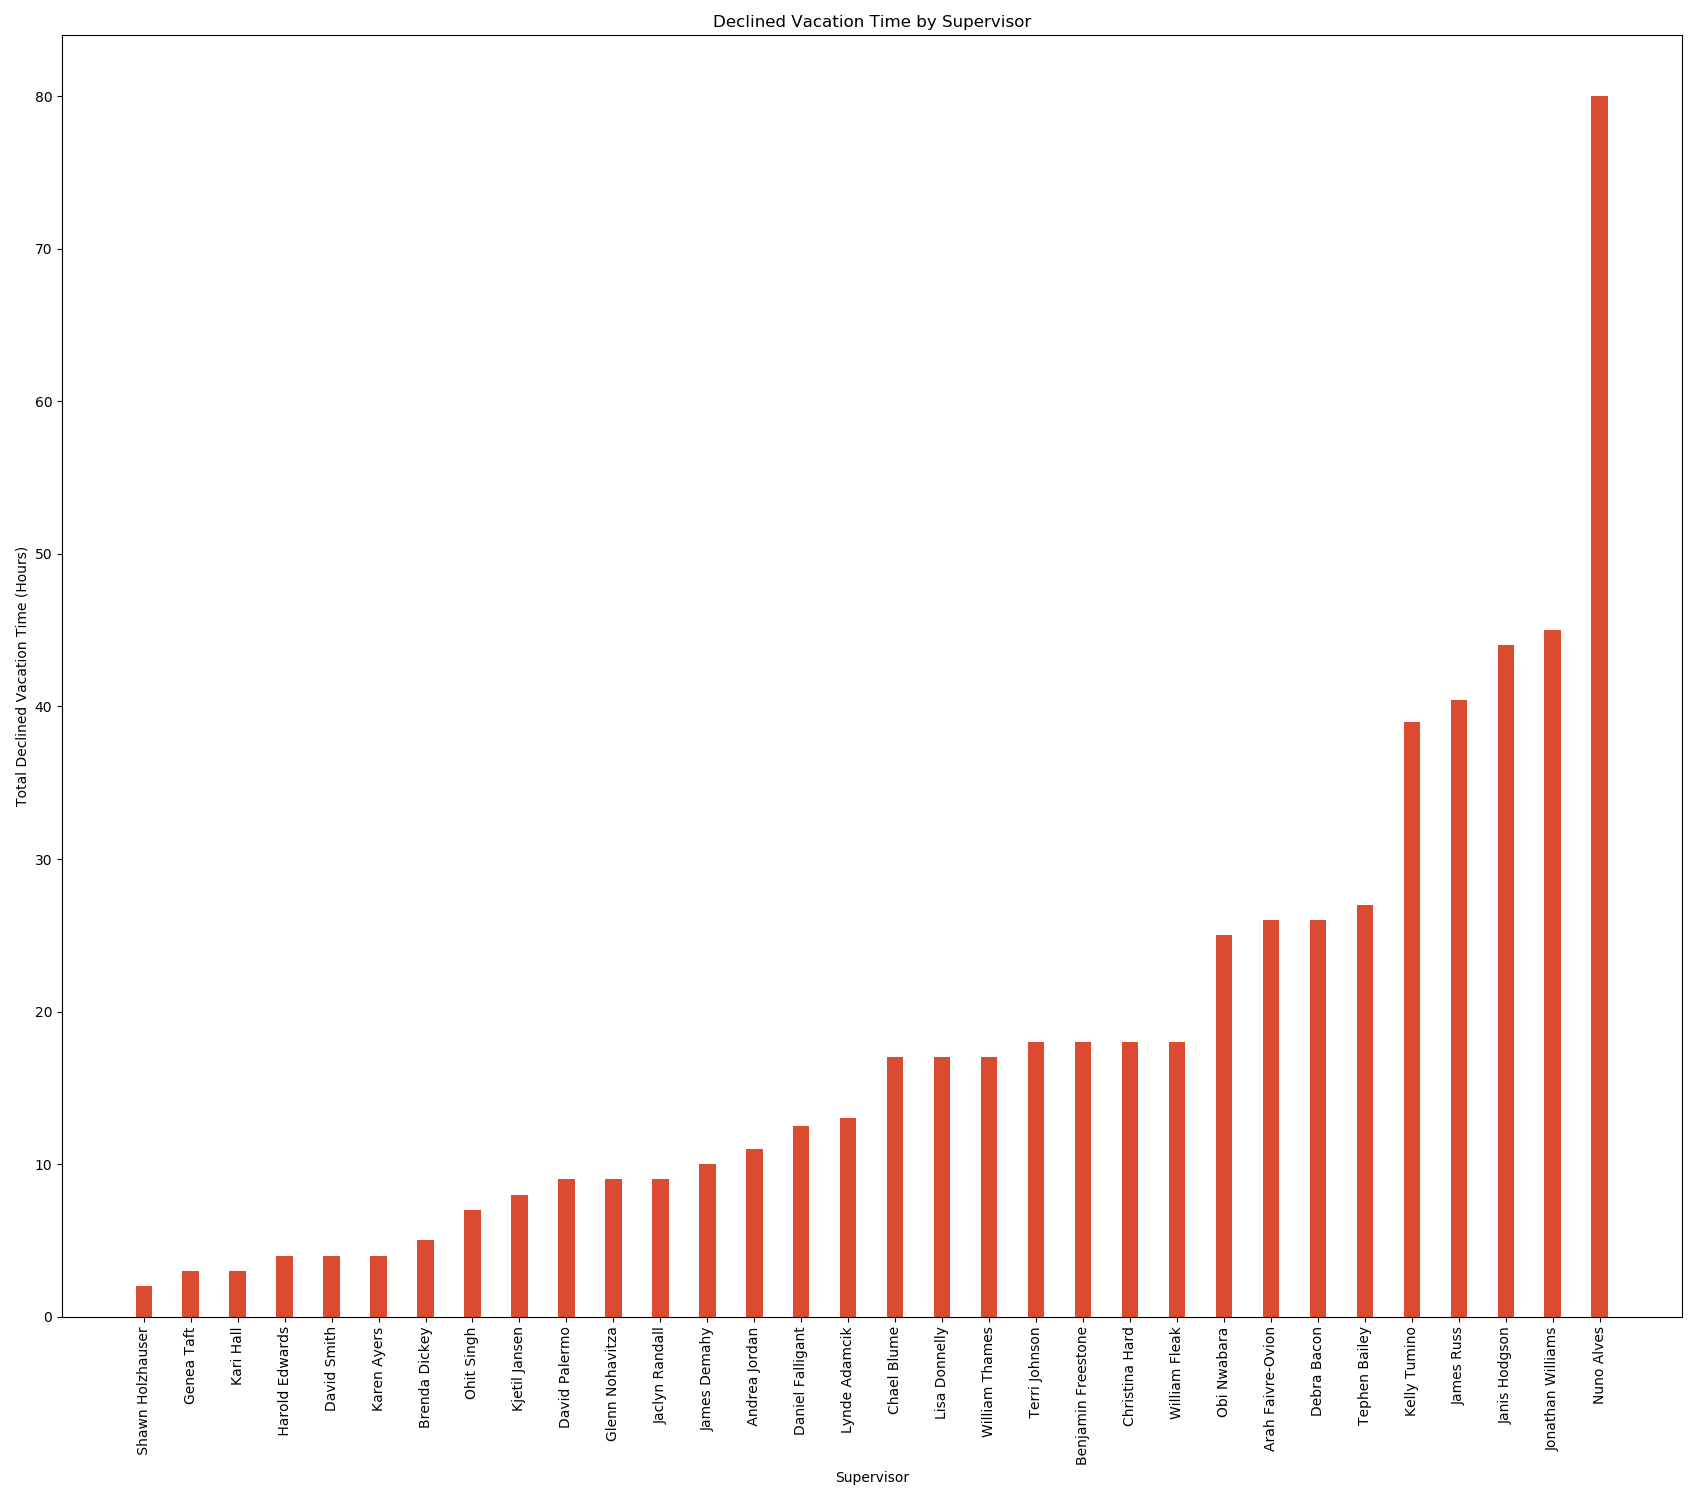
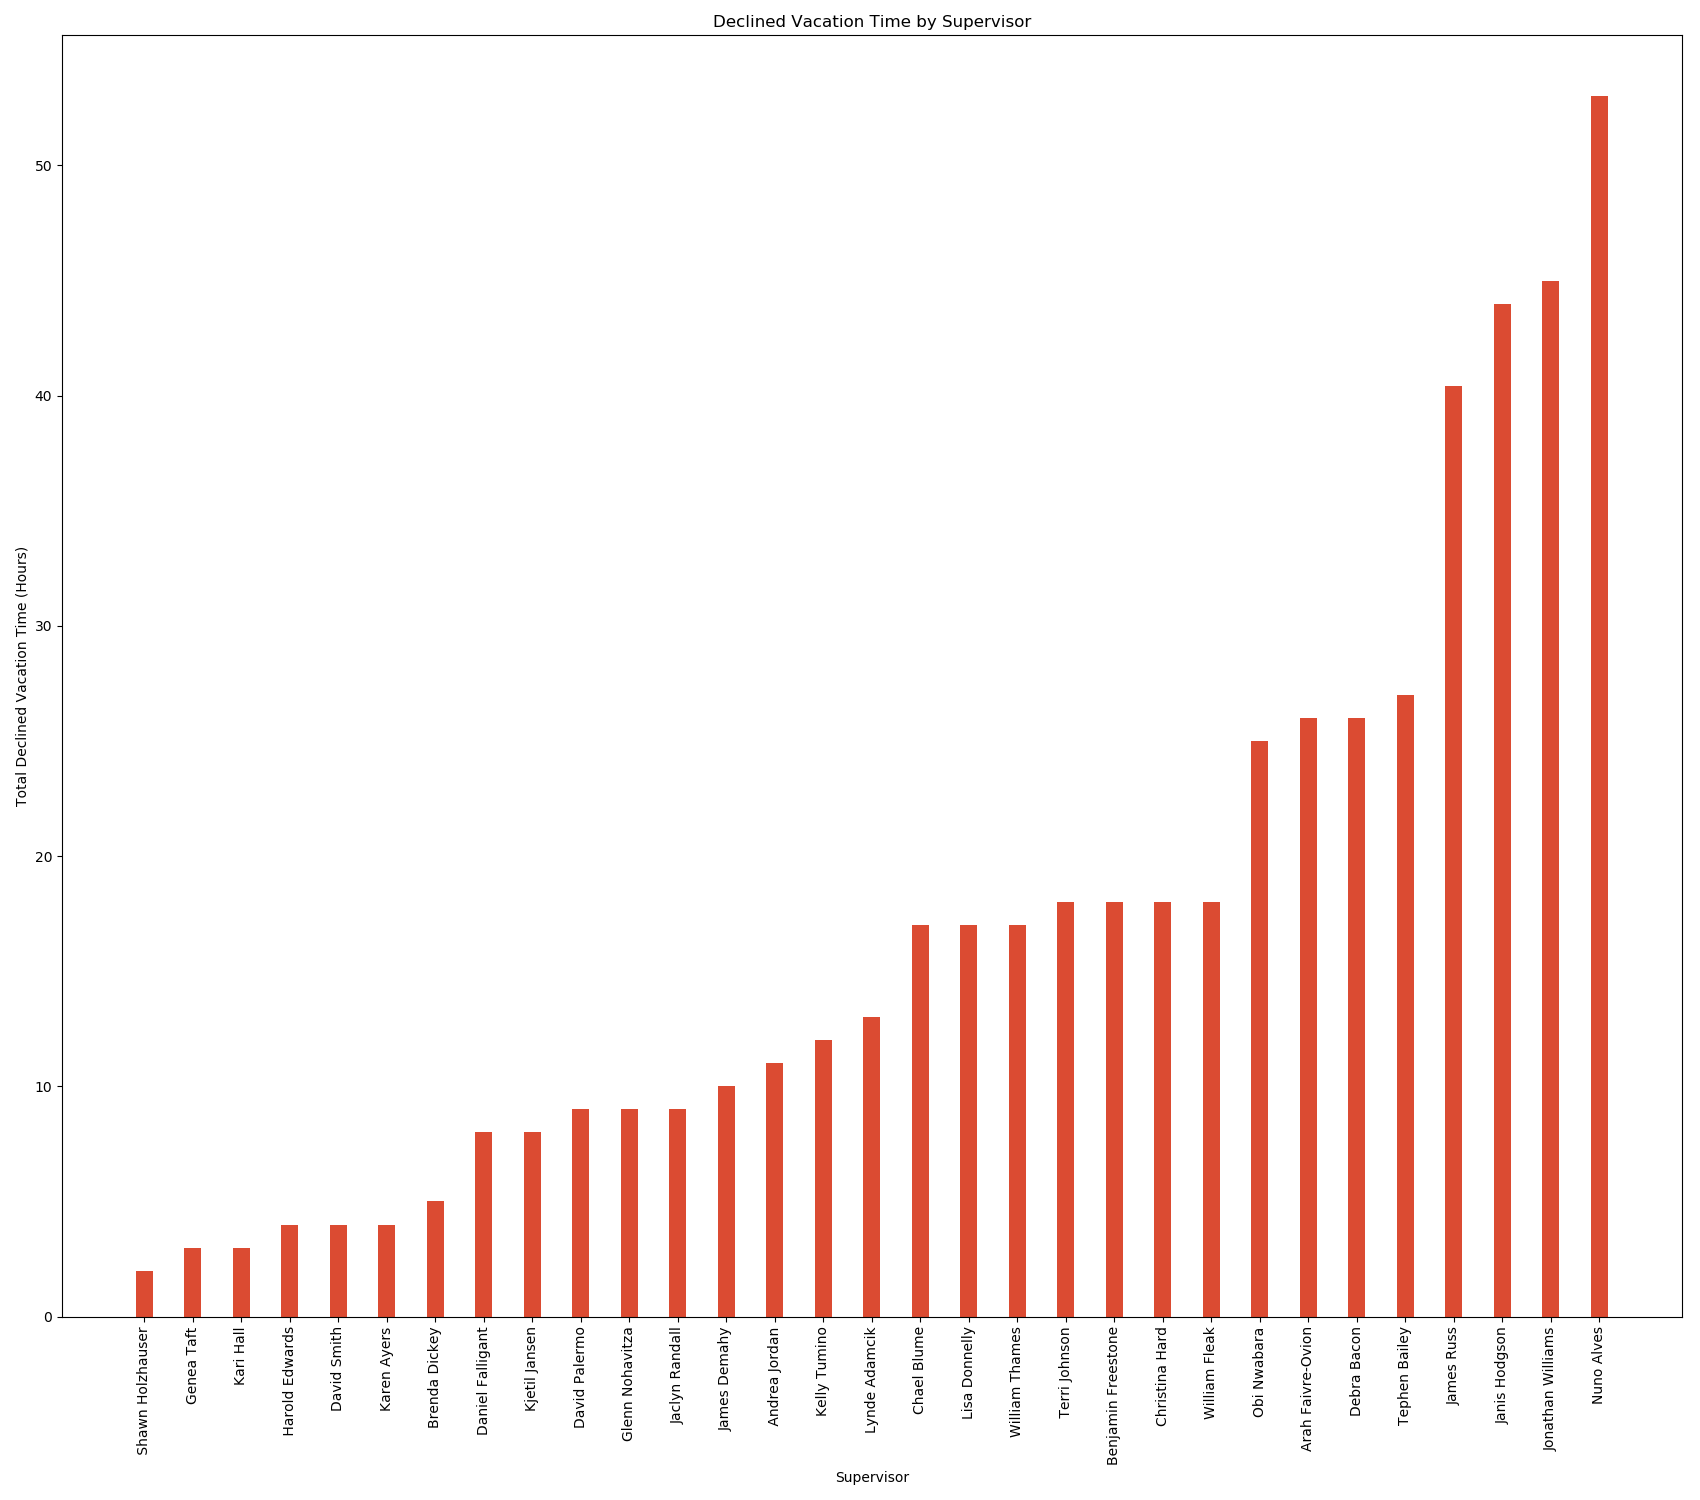
fixing rejected vaca graphs

Changed region(s): [[0.0624, 0.184, 0.9353, 0.9813]]

diff --git a/eda.py b/eda.py
@@ -63,7 +63,7 @@ def rej_vaca():
 	df = pd.read_csv('data/vaca_rej.csv')
 	df.columns = [col.lower().replace(' ', '_') for col in df.columns]
 	df.rename(columns={'manager/approver_name': 'supervisor'}, inplace=True)
-	df = df[df['leave_request_date'].str.contains('2016')]
+	df = df[(df['leave_request_date'].str.contains('2016')) & (df['note'].isnull())]
 
 	df.loc[:, 'supervisor'] = df['supervisor'].str.lower()
 	df.loc[:, 'supervisor'] = df['supervisor'].str.lstrip()
@@ -533,4 +533,4 @@ if __name__ == '__main__':
 	# west_sup_plot(w_ot_df)
 
 	vaca_df, full_df = rej_vaca()
-	reject_plot(vaca_df, full_df, plot_type='average')
+	reject_plot(vaca_df, full_df, plot_type='total')
